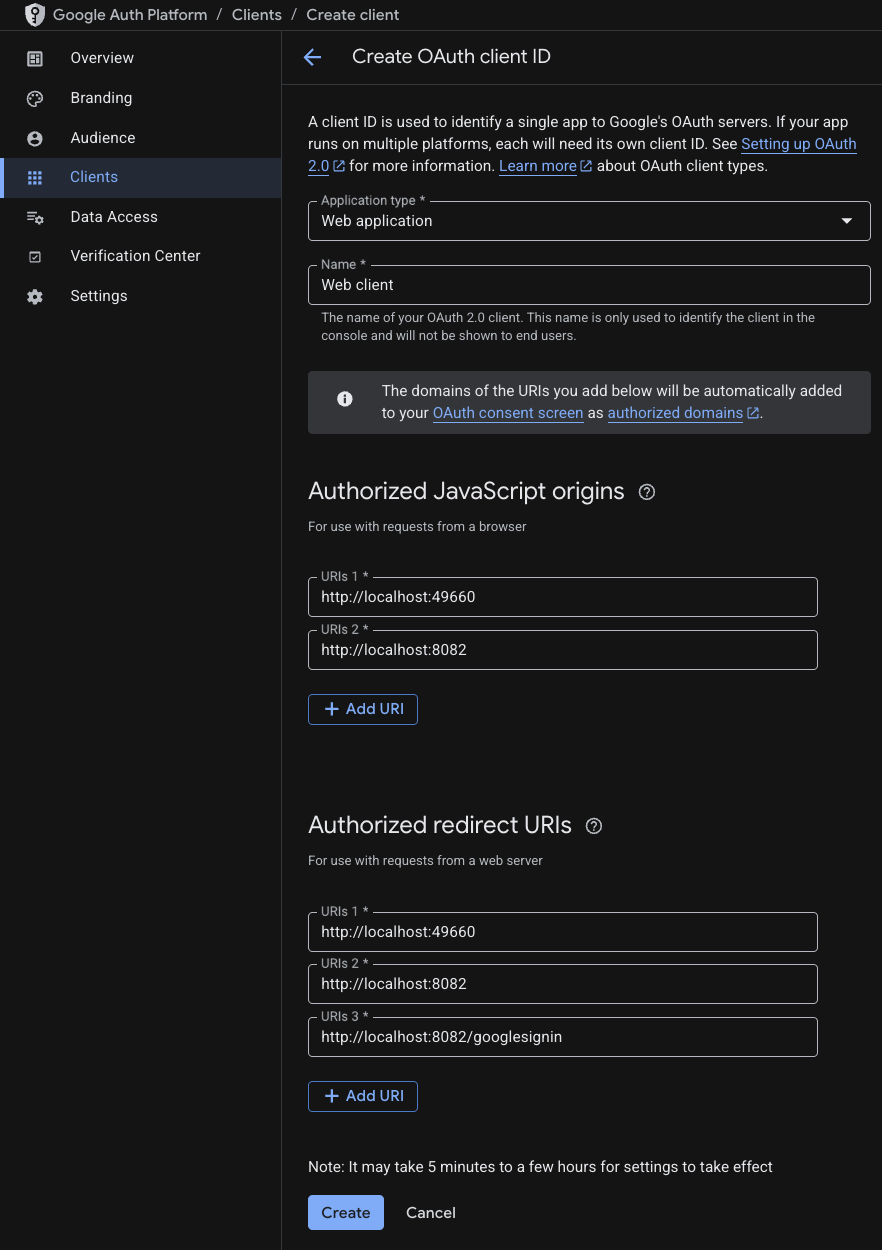
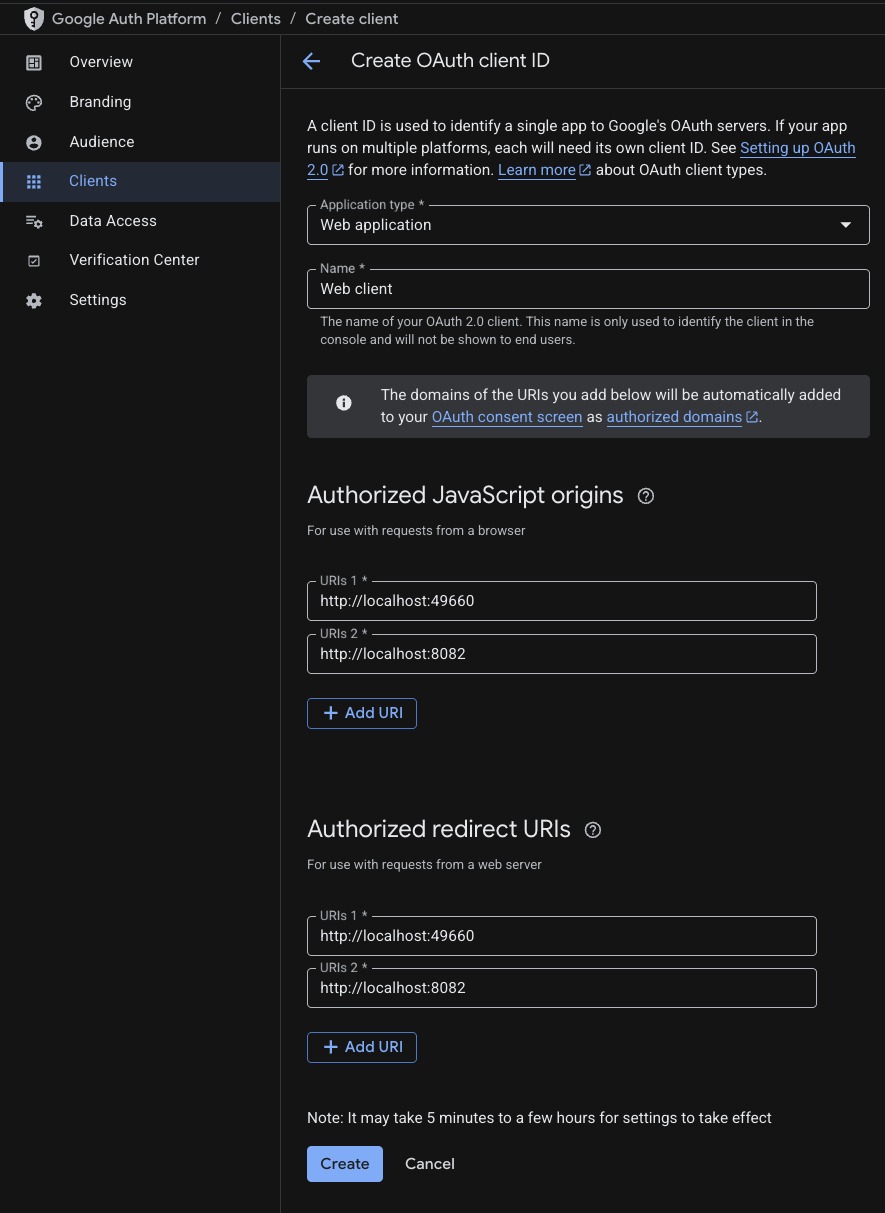
docs: Remove /googlesignin path from redirect URI examples

diff --git a/docs/06-concepts/11-authentication/04-providers/02-google/01-setup.md b/docs/06-concepts/11-authentication/04-providers/02-google/01-setup.md
@@ -63,7 +63,7 @@ development:
         "token_uri": "https://oauth2.googleapis.com/token",
         "auth_provider_x509_cert_url": "https://www.googleapis.com/oauth2/v1/certs",
         "client_secret": "your-client-secret",
-        "redirect_uris": ["http://localhost:8082/googlesignin"]
+        "redirect_uris": ["http://localhost:8082"]
       }
     }
 ```
@@ -208,11 +208,7 @@ $ flutter run -d chrome --web-port=49660
 ```
 :::
 
-Set up the actual redirect URI where the user will navigate after the sign-in. You can choose any path you want but it has to be the same in the credentials, your server, and Flutter configurations.
-
-For example, using the path `/googlesignin`.
-
-For development inside `Authorized redirect URIs` add `http://localhost:8082/googlesignin`, in production use `https://example.com/googlesignin`.
+Set up the redirect URI where the user will navigate after sign-in. For development, add `http://localhost:8082` inside `Authorized redirect URIs`. In production, use your server's domain (e.g., `https://example.com`).
 
 Then, on the `web/index.html` file, add the following to the `<head>` section:
 
